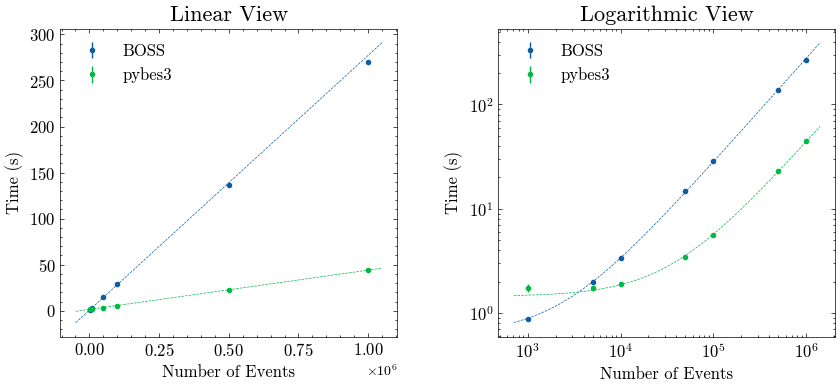
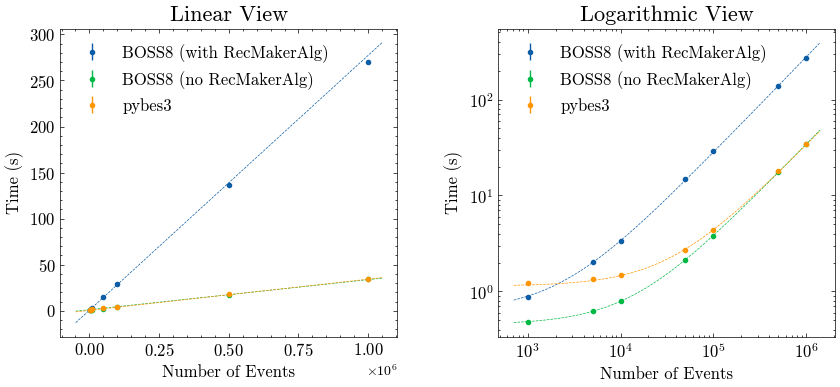
update performance docs

diff --git a/docs/index.md b/docs/index.md
@@ -71,7 +71,7 @@
 
 ### Data reading
 
-A simple benchmark is provided to compare the reading performance `pybes3` and `BOSS8`:
+A simple benchmark is provided to compare the performance of `pybes3` and `BOSS8` in reading `dst` files:
 
 - For `pybes3`, we directly read out the `Event` tree:
 
@@ -86,35 +86,48 @@ A simple benchmark is provided to compare the reading performance `pybes3` and `
     data_array = uproot.concatenate({f: "Event" for f in files}, entry_stop=n_evt)
     ```
 
+- For `BOSS8`, since when reading reconstruction data, it will load a `RecMakerAlg` algorithm for each event, which slows down the reading performance significantly (4~5 times slower than pure reading), we test 2 cases:
 
-- For `BOSS8`, a pure loop on all events is performed:
+    - A loop on all events with default job-options (with `RecMakerAlg` algorithm):
 
-    ```
-    #include "$ROOTIOROOT/share/jobOptions_ReadRec.txt"
-    #include "$OFFLINEEVENTLOOPMGRROOT/share/OfflineEventLoopMgr_Option.txt"
+        ```
+        #include "$ROOTIOROOT/share/jobOptions_ReadRec.txt"
+        #include "$OFFLINEEVENTLOOPMGRROOT/share/OfflineEventLoopMgr_Option.txt"
 
-    EventCnvSvc.digiRootInputFile = { ... }; // list of ROOT files to read
-    ApplicationMgr.EvtMax = ...; // number of events to read
-    MessageSvc.OutputLevel = 7; // suppress messages
-    ```
+        EventCnvSvc.digiRootInputFile = { ... }; // list of ROOT files to read
+        ApplicationMgr.EvtMax = ...; // number of events to read
+        MessageSvc.OutputLevel = 7; // suppress messages
+        ```
 
-The machine used for the benchmark is a `Intel i7-12700` with `Great Wall GW7000 4TB` SSD. The operating system is `AlmaLinuxOS9` on `WSL2`.
+    - A loop on all events without loading `RecMakerAlg` algorithm. This is similar to reading `rtraw` files and is the closest case to raw `ROOT` reading:
 
-!!! note
-    We use SSD to avoid the disk I/O bottleneck here. But on IHEP cluster, the disk I/O may be the bottleneck, leaving no significant difference between `pybes3` and `BOSS8`.
+        ```
+        ApplicationMgr.ExtSvc += {"EvtPersistencySvc/EventPersistencySvc"};
+        ApplicationMgr.ExtSvc +={"RootEvtSelector/EventSelector","RootCnvSvc/EventCnvSvc"};
+        EventPersistencySvc.CnvServices += {"EventCnvSvc"};
+        #include "$OFFLINEEVENTLOOPMGRROOT/share/OfflineEventLoopMgr_Option.txt"
 
-The number of events is set to `1000`, `5000`, `10000`, `50000`, `100000`, `500000`, and `1000000`. The results are shown below:
+        EventCnvSvc.digiRootInputFile = { ... }; // list of ROOT files to read
+        ApplicationMgr.EvtMax = ...; // number of events to read
+        MessageSvc.OutputLevel = 7; // suppress messages
+        ```
+
+The machine used for the benchmark is a `Intel i7-12700` with `Great Wall GW7000 4TB` SSD. The operating system is `AlmaLinuxOS9` on `WSL2`. The number of events is set to `1000`, `5000`, `10000`, `50000`, `100000`, `500000`, and `1000000`.
+
+The results are shown below:
 
 ![Dummy Reading Performance](image/io-benchmarking.png)
 
 The fitting results with a linear function is:
 
-
 <div class="center-table" markdown>
-|          | Initialization time (s) | Slope (s/10k-event) |
-| :------: | :---------------------: | :-----------------: |
-| `pybes3` | 1.445                   | 0.426               |
-| `BOSS8`  | 0.615                   | 2.766               |
+|                            | Initialization time (s) | Slope (s/10k-event) |
+| :------------------------: | :---------------------: | :-----------------: |
+| BOSS8 (with `RecMakerAlg`) | 0.615                   | 2.766               |
+| BOSS8 (no `RecMakerAlg`)   | 0.451                   | 0.338               |
+| pybes3                     | 1.135                   | 0.326               |
 </div>
 
-The result shows that `pybes3` can read `6~7x` faster than `BOSS8` in most of the cases. It is slower than `BOSS8` when reading small number of events (~1000), since the module importing and initialization time is counted in the benchmark.
+The result shows that `pybes3` is also comparable to `BOSS8` when `RecMakerAlg` is not loaded, which means that the reading performance of `pybes3` is close to the reading performance of `ROOT` itself. `pybes3` is several times faster than `BOSS8` with default settings, and slower when reading small number of events (~1000), since the module importing and initialization time is counted in the benchmark.
+
+Since users may have to use the default settings of `BOSS` to read reconstruction data, `pybes3` is still several times faster in this case.
